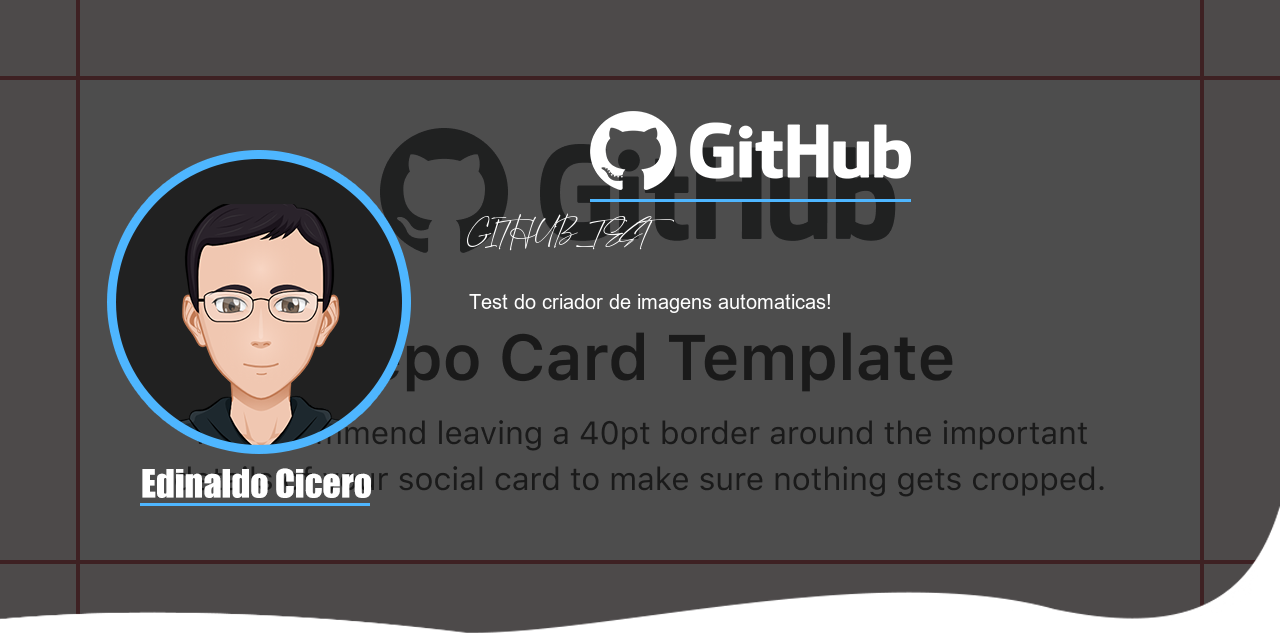
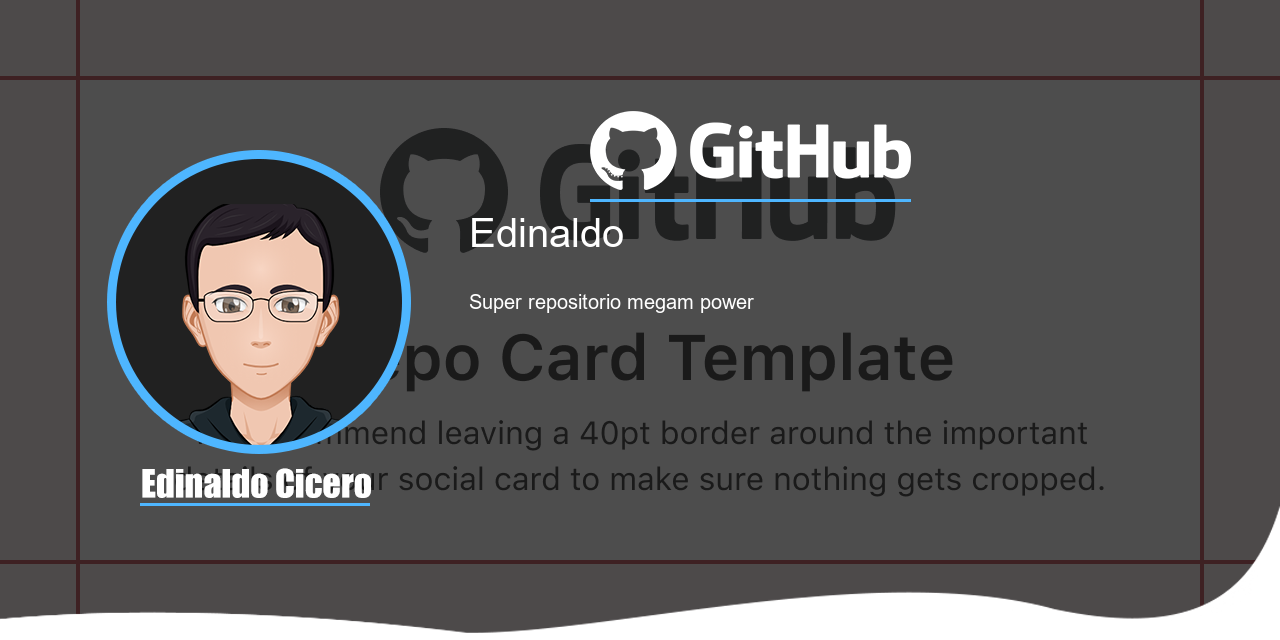
Update_4
Foi mudado para CLI não será mais usado o pysimplegui , sera em cmd colorido.

Changed region(s): [[0.375, 0.4375, 0.6562, 0.5], [0.3438, 0.3438, 0.5312, 0.4062]]

diff --git a/main.py b/main.py
@@ -1,161 +1,79 @@
 from json import load
-from tkinter.constants import SEL, TRUE
-import PySimpleGUI as sg
 import os
 import sys
 import shutil
 from pprint import pprint, pformat
 from ast import literal_eval
 from libs.JSON import JsonClass
-from PySimpleGUI.PySimpleGUI import HSeparator
-from libs.JSON import JsonClass
-
-
 from libs.creator_post import CreatorPosts
+from colorama import init , Fore , Back , Style
+
+
+init(autoreset=True)
+
+#-----------------------------------------------------------------------------------------------
 
 JSLOAD      = JsonClass()
 COLORS_APP  = JSLOAD.json_read(name_file = "database/app_colors" )
 
 #-----------------------------------------------------------------------------------------------
 
-
-
-#-----------------------------------------------------------------------------------------------
-
-class AppBook():
+class AppCliImageC():
     def __init__(self):
-        sg.theme("Reddit")
-        self.img_class = CreatorPosts()
-        #-----------------------------------------------------------------------------------------------
-        self.ML_KEY         = '-ML-'
-        self.trava_comands  = True
-        self.com            = "edinaldo"
+        self.img_class  = CreatorPosts()
+        self.trava_loop = True
 
+        self.cmd_keys = [
+            ["end"         , "fechar aplicação."                       , "LIST DE KEYS"                        ],
+            ["card_github" , "criar um repo card para do GitHub"       , "LIST DE KEYS"                        ],
 
-        #----------- Layouts ----------------------------------------------------------------------------
-        self.layouts_full = [ 
-                                [
-                                sg.Text("Nome", text_color = 'white', background_color = COLORS_APP["AZUL_ESCURO_SINZENTO"] ) ,         
-                                ],
+        ]
 
-                                
-                                [
-                                sg.In(  background_color    = COLORS_APP["BRANCO_1"],
-                                        #text_color          = COLORS_APP["BRANCO_1"],
-                                        enable_events       = True,
-                                        focus               = True, 
-                                        do_not_clear        = True,
-                                        size                = (80 ,2 ) , 
-                                        border_width        = 0 ,
-                                        pad                 = 0 ,
-                                        key='_COMAND_TERMINAL_' 
-                                        
-                                        ),
-                                ],
+        self.dic_comand_cli = {
+            ""                   : "",
+            self.cmd_keys[0][0]  : self.quitSoft ,
+            self.cmd_keys[1][0]  : self.reposCardGithub ,
 
-                                [sg.Button(button_text              = "Adic",
-                                            button_color            = ( COLORS_APP["AZUL_ESCURO_SINZENTO"], COLORS_APP["AZUL_CLARO"]) ,
-                                            #button_type             = 2 ,
-                                            s                       = (20 , 1) , 
-                                            key                     = "_BUTTON_RUN_",
-                                            border_width            = 1, 
-                                            ),
+        }
 
-                                 sg.Button(button_text              = "CREATOR GITHUB CAP IMG",
-                                            button_color            = ( COLORS_APP["AZUL_ESCURO_SINZENTO"], COLORS_APP["AZUL_CLARO"]) ,
-                                            #button_type             = 2 ,
-                                            s                       = (20 , 1) , 
-                                            key                     = "_BUTTON_CAP_GIT_",
-                                            border_width            = 1, 
-                                            )
-                                            
-
-                                ],
-                                
-                                
-                                [sg.Multiline(  
-                                                size                = (50, 10), 
-                                                border_width        = 0,
-                                                background_color    = COLORS_APP["AZUL_ESCURO_2"],
-                                                text_color          = COLORS_APP["BRANCO_1"], 
-                                                write_only          = False, 
-                                                key                 = self.ML_KEY, 
-                                                reroute_stdout      = True,
-                                                #focus               = True,
-                                                echo_stdout_stderr  = True,
-                                                pad                 = 0,
-                                                no_scrollbar        = True,
-                                                do_not_clear        = True,
-                                                )
-                                            ]
-                            ]
-
-
-        self.windons  = sg.Window( "Get-Blend",
-                                    background_color    = COLORS_APP["AZUL_ESCURO_SINZENTO"],
-                                    size                = (720,480) ,
-                                    #icon                = "Icon.ico",
-                                    #titlebar_icon       = base64.icone , 
-                                    #use_custom_titlebar = False ,
-                                    return_keyboard_events = True, 
-                                    use_default_focus      = False
-
-                                    ).layout(self.layouts_full)
-
-        sg.cprint_set_output_destination(self.windons, self.ML_KEY)
-
-
-    def printCV(self , text_value , editor_text_color ):
-        return sg.cprint( text_value ,  text_color = editor_text_color )
         pass
-    
 
-    def main(self):
-        while True:
-            self.events , self.values = self.windons.Read()#timeout=10
-            if self.values == sg.WIN_CLOSED or self.values == "Sair":
-                break
+    def quitSoft(self):
+        self.trava_loop = False
 
-            if self.events == "_BUTTON_RUN_":
-                self.img_class.new_image_background_color(
-									size 			 		= ( 1080 , 1080),
-									background_color_key 	= "LARANJA",  
-									text_color_key 	 		= "BRANCO_1" ,
-									font_type 				= 'arial.ttf' ,
-									text_size 		 		= 50 ,
-									text_pos 		 		= (540 , 540 ),
-									img_out_name 			= "Novaoutraimagem.png",
-									)
+        print(Fore.YELLOW + "BAY BAY !!!!!!!!!! ( o _ o ) ")
+        pass
+        
+    def reposCardGithub(self):
 
-            if self.events == "_BUTTON_NeW_IMG":
-                self.img_class.new_image_background( 
-                                                    img_background  = "" , 
-                                                    image_sub       = "", 
-                                                    text_pos        = "", 
-                                                    font_typ        = "" ,  
-                                                    text_size       = "", 
-                                                    text_color_key  = "", 
-                                                    text            = "" ,
-                                                    img_out_name    = "image.png"
+        text_titulo     = input( Fore.YELLOW + "Nome do projeto ==> ")
+        text_descrition = input( Fore.YELLOW + "Descriça breve do projeto ==> ")
+        self.img_class.tumbnail_github_repository(  text_title      = text_titulo , 
+                                                    text_descrition = text_descrition
                                                     )
 
-            if self.events == "_BUTTON_CAP_GIT_":                              
-                self.img_class.tumbnail_github_repository(  text_title      = "GITHUB_TEST" , 
-                                                            text_descrition = "Test do criador de imagens automaticas!")
-
-                
-                pass
-
-                #print("_BUTTON_RUN_")
-
-
-
-
-
-
+        self. main()
 
         pass
 
+    def main(self):
+        while self.trava_loop:
+            
+            try:
+                input_comands = input(Fore.GREEN + "Digite () para mostra a lista de comando desponiveis --> " + Fore.BLUE )
 
-app = AppBook()
-app.main()
+                self.dic_comand_cli[ input_comands ]()
+
+            except:
+                pass
+            
+
+
+
+        
+
+
+
+if __name__ == "__main__":
+    app = AppCliImageC()
+    app.main()

diff --git a/libs/creator_post.py b/libs/creator_post.py
@@ -94,13 +94,13 @@ class CreatorPosts():
 
 	#--------------------------------------------------------
 	def tumbnail_github_repository(self , text_title , text_descrition ):
-		ran_numb 		= randint(0 , 1000)
-		path_imgs_base 	= "imgs/backgrounds/molduras/"
+
+		ran_numb 	= randint(0 , 1000)
 
 		img_1 		= GITHUB_TUMB_DATAS["img_backgrund_0"]
 		img_2 		= GITHUB_TUMB_DATAS["img_backgrund_1"]
 		
-		texto_2 	= " Criador de imagens para \n posts no instagram. :)" 
+
 
 		#1280 x 640  + str( ran_numb)
 		#--------------------------------------------------------------
@@ -114,7 +114,7 @@ class CreatorPosts():
 		self.c_img.text_imagen( 
 								image			= imge_join , 
 								text_positions	= GITHUB_TUMB_DATAS["text_positions"][0] , 
-								font_type		= GITHUB_TUMB_DATAS["font_list_values"][1] , 
+								font_type		= GITHUB_TUMB_DATAS["font_list_values"][0] , 
 								font_size		= GITHUB_TUMB_DATAS["font_list_values"][2] , 
 								text_color		= COLORS_APP["BRANCO_1"] , 
 								text			= text_title

diff --git a/libs/class_image.py b/libs/class_image.py
@@ -17,20 +17,23 @@ class CreatorImagens():
 
 		pass
 	#--------------------------------------------------------
+	def coverResize(self, image_file_name , imagen_resize ):
+		with Image.open( image_file_name ) as im:
+			im_resized = im.resize(  imagen_resize  )
+			
+		return im_resized 
 
 	def text_imagen(self , image , text_positions , font_type , font_size , text_color , text ):
 		text_font   = ImageFont.truetype(font_type,  font_size)
 		larg , altu = text_font.getsize(text)
 		draw        = ImageDraw.Draw(image)
-
 		draw.text( text_positions, text, font = text_font, fill = text_color )
 
 		return larg , altu
-
 		pass
 
 	#--------------------------------------------------------
-
+	
 	def img_creator_from_zero(self , size , color ):
 		imagem = Image.new('RGBA', size, color)
 		return imagem
